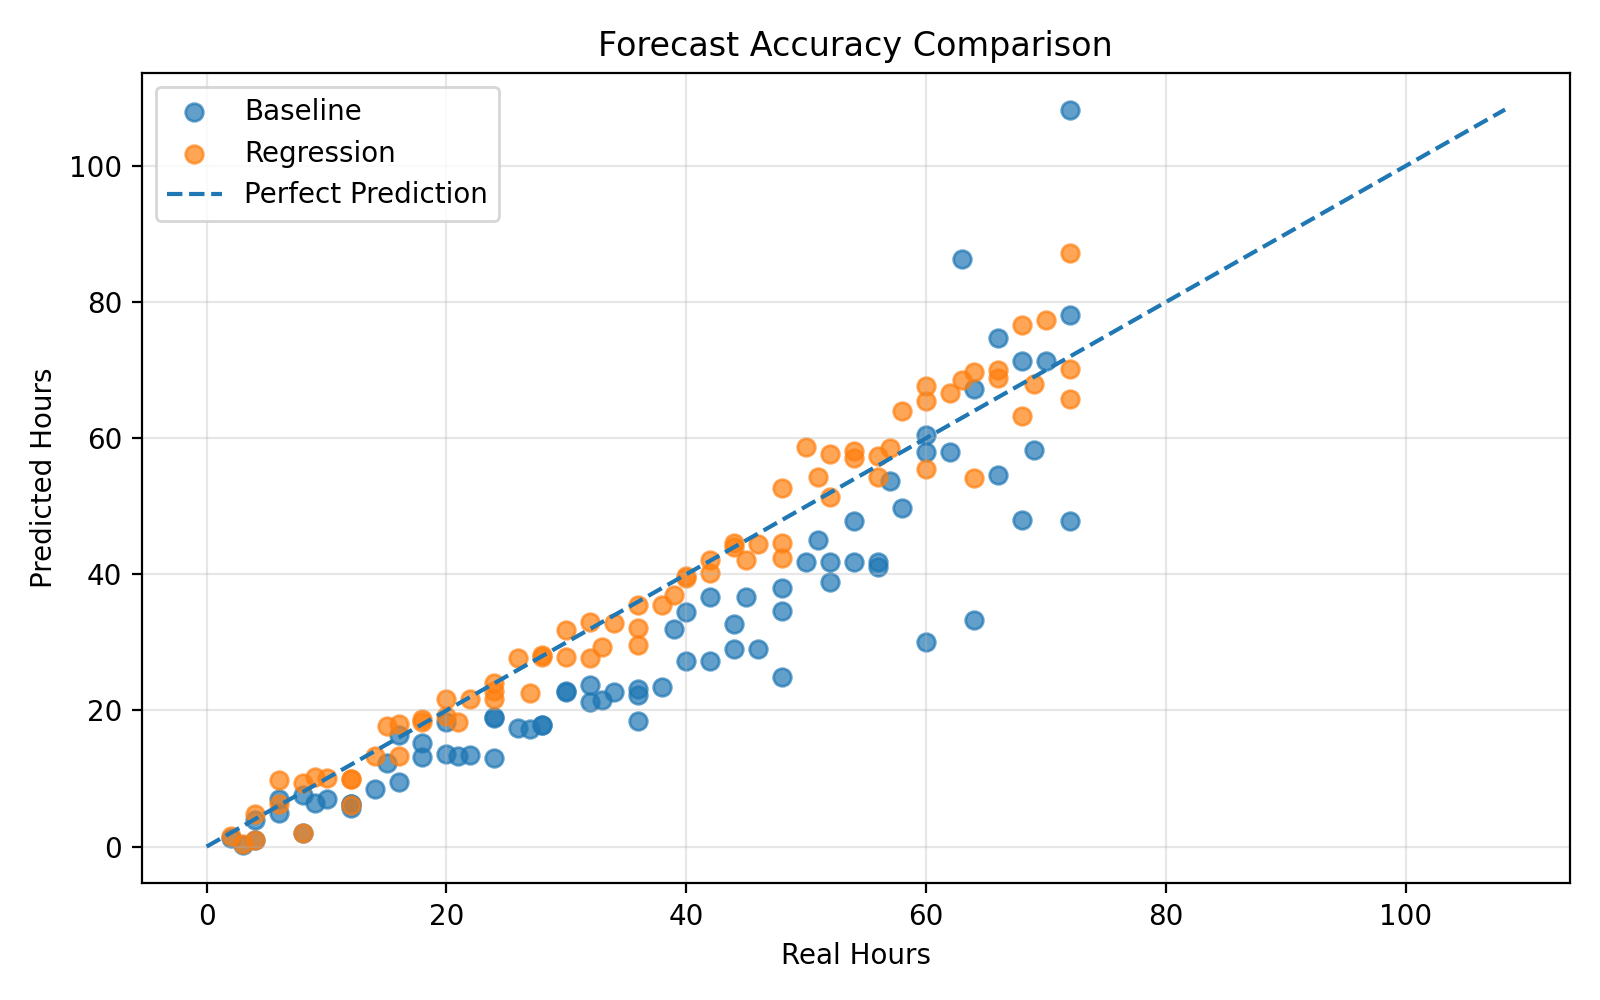
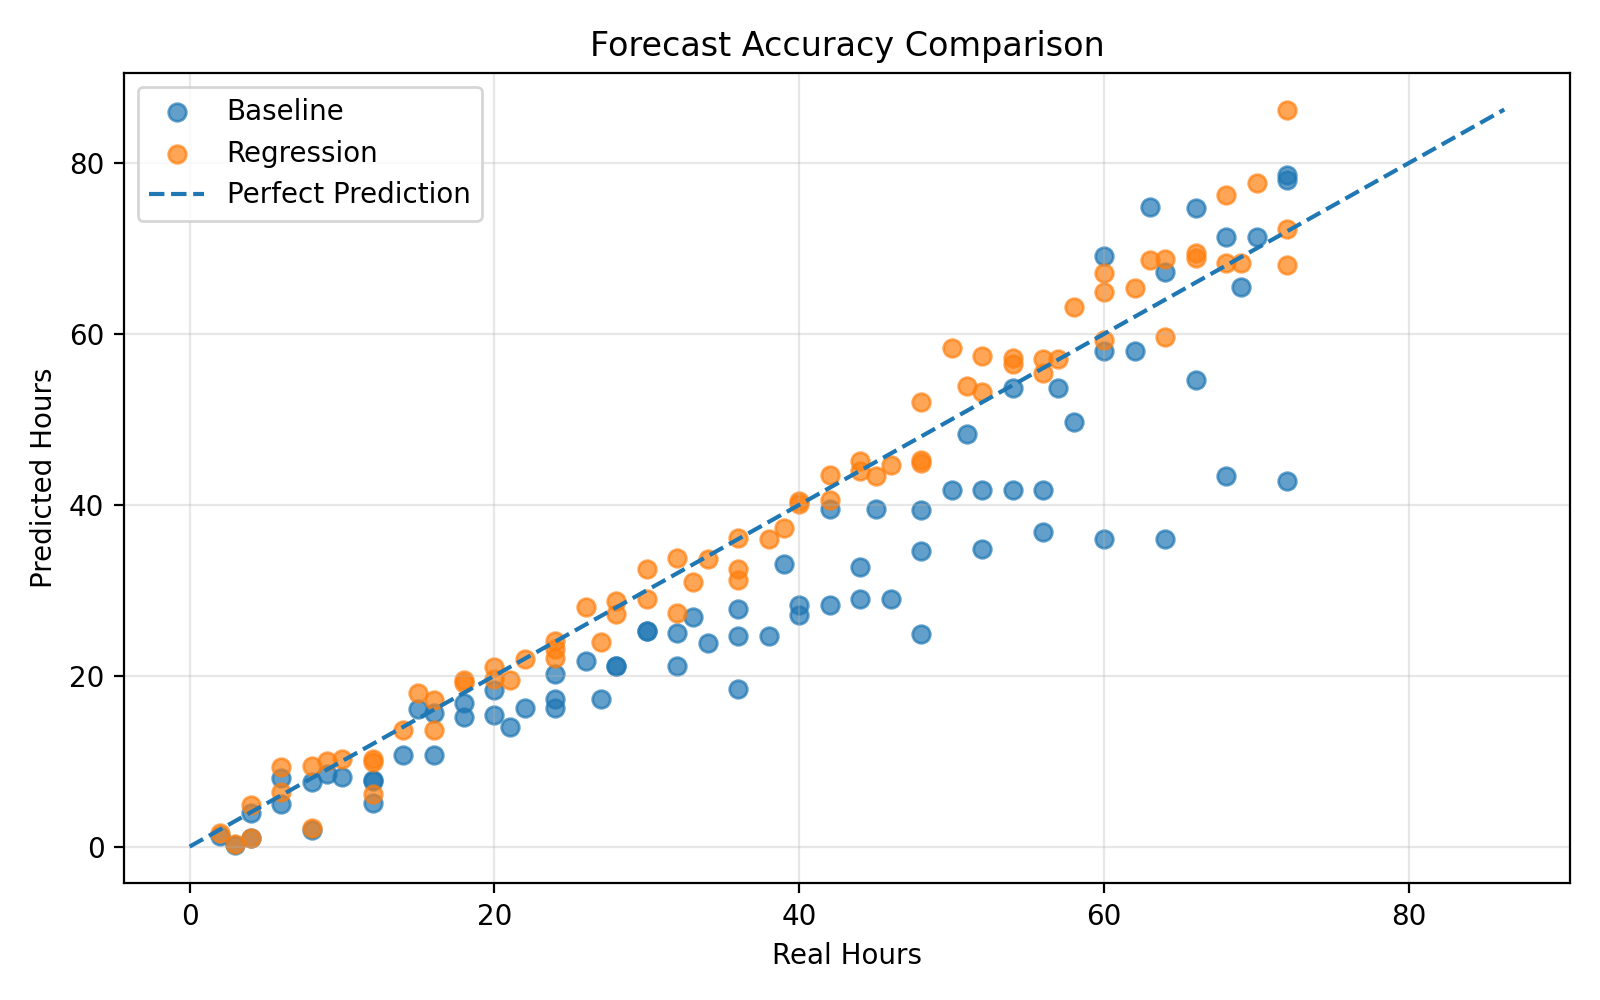
update paper reslts and discussion

diff --git a/paper/paper.md b/paper/paper.md
@@ -83,7 +83,7 @@ The forecasting workflow consists of collecting fill-level measurements from ult
 
 The Baseline Average Rate model is a heuristic forecasting approach that estimates future fill levels based on the recent rate of change observed in historical measurements. The method assumes that the short-term filling behavior of a waste bin can be approximated by its most recent filling trend, making it suitable for scenarios where computational simplicity and rapid execution are required [@hyndman2021].
 
-The model estimates the recent filling rate using the median of observed rate-of-change values within a 48-hour window, reducing sensitivity to sensor noise and isolated outlier readings while preserving the model's simplicity and interpretability.
+The model estimates the recent filling rate using the median of observed rate-of-change values within a 96-hour window, reducing sensitivity to sensor noise and isolated outlier readings while preserving the model's simplicity and interpretability. A wider window was adopted after preliminary experiments showed that a narrower 48-hour window often contained too few observations to produce a stable rate estimate, particularly for sensors with longer sampling intervals.
 
 Because the model relies on straightforward calculations rather than parameter optimization or model training, it presents a low computational overhead and can be applied in resource-constrained environments. In addition, its transparent formulation facilitates interpretation of the generated forecasts and supports practical deployment in IoT-based monitoring systems.
 
@@ -91,7 +91,7 @@ Because the model relies on straightforward calculations rather than parameter o
 
 The Linear Regression model estimates future fill levels by fitting a linear relationship between time and observed fill percentages [@james2021]. This approach captures long-term filling tendencies and provides a simple statistical framework for forecasting when waste accumulation follows an approximately linear trend.
 
-Compared to purely heuristic approaches, linear regression can produce smoother forecasts and reduce the influence of short-term fluctuations or noisy sensor measurements. The model remains computationally efficient while providing a more formal representation of temporal trends, making it suitable for exploratory forecasting studies and smart waste monitoring applications.
+Compared to purely heuristic approaches, linear regression can produce smoother forecasts and reduce the influence of short-term fluctuations or noisy sensor measurements. The implementation relies on a robust regression estimator (Huber loss), which limits the influence of large isolated deviations, such as those introduced by sporadic waste-disposal events, while retaining the simplicity and computational efficiency of a linear model [@huber1964]. This makes it suitable for exploratory forecasting studies and smart waste monitoring applications.
 
 # Evaluation metrics
 
@@ -120,10 +120,10 @@ Table 1 summarizes the global forecasting performance of the evaluated models, i
 
 | Model      | N  | MAE   | RMSE   | MAPE  |
 | ---------- | -- | ----- | ------ | ----- |
-| Baseline   | 78 | 9.195 | 11.665 | 0.281 |
-| Regression | 78 | 3.034 | 4.072  | 0.120 |
+| Baseline   | 78 | 7.966 | 10.328 | 0.243 |
+| Regression | 78 | 2.503 | 3.489  | 0.108 |
 
-The evaluated forecasting approaches presented different performance levels during the experimental evaluation. The regression-based approach achieved substantially lower errors compared to the heuristic baseline, reducing MAE from 9.195 hours to 3.034 hours and RMSE from 11.665 hours to 4.072 hours.
+The evaluated forecasting approaches presented different performance levels during the experimental evaluation. The regression-based approach achieved substantially lower errors compared to the heuristic baseline, reducing MAE from 7.966 hours to 2.503 hours and RMSE from 10.328 hours to 3.489 hours.
 
 The obtained performance suggests that modeling the temporal evolution of the fill level provides more accurate remaining-time estimates than relying only on the median historical filling rate.
 
@@ -133,14 +133,14 @@ Table 2 presents the forecasting performance across individual monitored sensors
 
 | Sensor | Model | N  | MAE    | RMSE   | MAPE  |
 | ------ | ----- | -- | ------ | ------ | ----- |
-| A1 | Baseline | 36 | 7.854 | 9.199  | 0.248 |
-| A1 | Regression | 36 | 2.987 | 4.429  | 0.082 |
-| A2 | Baseline | 24 | 7.846 | 9.749  | 0.260 |
-| A2 | Regression | 24 | 2.814 | 3.227  | 0.139 |
-| A3 | Baseline | 18 | 13.677 | 17.139 | 0.374 |
-| A3 | Regression | 18 | 3.423 | 4.326  | 0.168 |
+| A1 | Baseline | 36 | 6.994 | 8.439  | 0.210 |
+| A1 | Regression | 36 | 2.754 | 4.128  | 0.078 |
+| A2 | Baseline | 24 | 5.121 | 6.012  | 0.191 |
+| A2 | Regression | 24 | 2.253 | 2.687  | 0.122 |
+| A3 | Baseline | 18 | 13.702 | 16.480 | 0.377 |
+| A3 | Regression | 18 | 2.335 | 3.010  | 0.147 |
 
-The per-sensor evaluation confirms the consistent advantage of the regression-based approach across all monitored waste bins. Differences in N across sensors arise from the walk-forward evaluation scheme combined with the 72-hour horizon limit: sensors with longer sampling intervals produce fewer valid evaluation points within this horizon.
+The per-sensor evaluation confirms the consistent advantage of the regression-based approach across all monitored waste bins. Sensor A3 exhibited the highest baseline error among the three sensors, suggesting that its underlying fill-level dynamics were comparatively less amenable to the simple rate-based heuristic, while the regression-based approach remained robust to this variation. Differences in N across sensors arise from the walk-forward evaluation scheme combined with the 72-hour horizon limit: sensors with longer sampling intervals produce fewer valid evaluation points within this horizon.
 
 Figure 1 presents the relationship between predicted and real remaining time values for both evaluated forecasting approaches.
 
@@ -152,7 +152,7 @@ Figure 2 presents the mean absolute error of both forecasting approaches as a fu
 
 ![Mean absolute error of the evaluated forecasting approaches as a function of the training window size.\label{fig2}](error_vs_window.png)
 
-The regression-based approach converges to low and stable error values (typically below 5 hours) once approximately 20 training observations are available, whereas the baseline approach remains considerably more volatile across a wider range of training window sizes, with errors occasionally exceeding 15 hours. Both approaches converge to similarly low error levels once the training window approaches the full sensor history, suggesting that the regression model reaches a stable predictive regime earlier than the baseline model.
+The regression-based approach converges to low and stable error values (typically below 5 hours) once approximately 20 training observations are available, whereas the baseline approach remains considerably more volatile across a wider range of training window sizes, with errors occasionally exceeding 15 hours. Both approaches converge to similarly low error levels once the training window approaches the full sensor history, suggesting that the regression model reaches a stable predictive regime earlier than the baseline model. This pattern is consistent with the per-sensor results, where the baseline model's accuracy is more strongly affected by sensor-specific fill-level dynamics, while the regression model maintains comparatively stable error levels across all evaluated sensors.
 
 Additional experimental artifacts, including generated CSV reports, benchmark scripts, and visualization outputs, are publicly available in the project repository to support reproducibility and transparency.
 